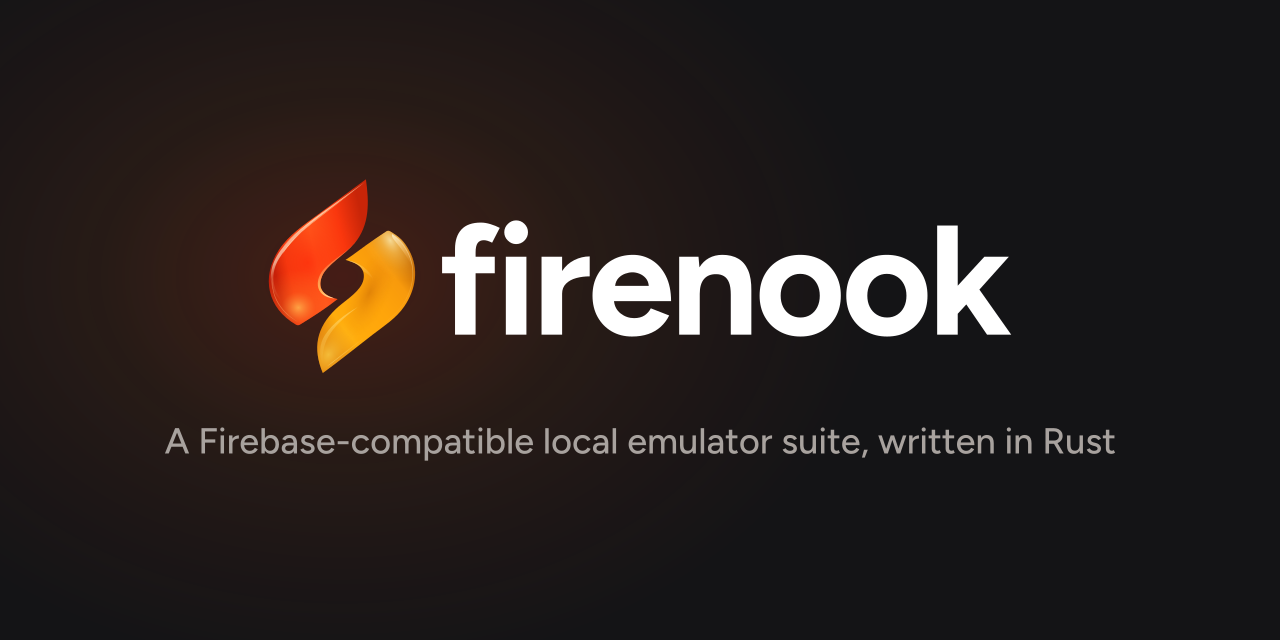
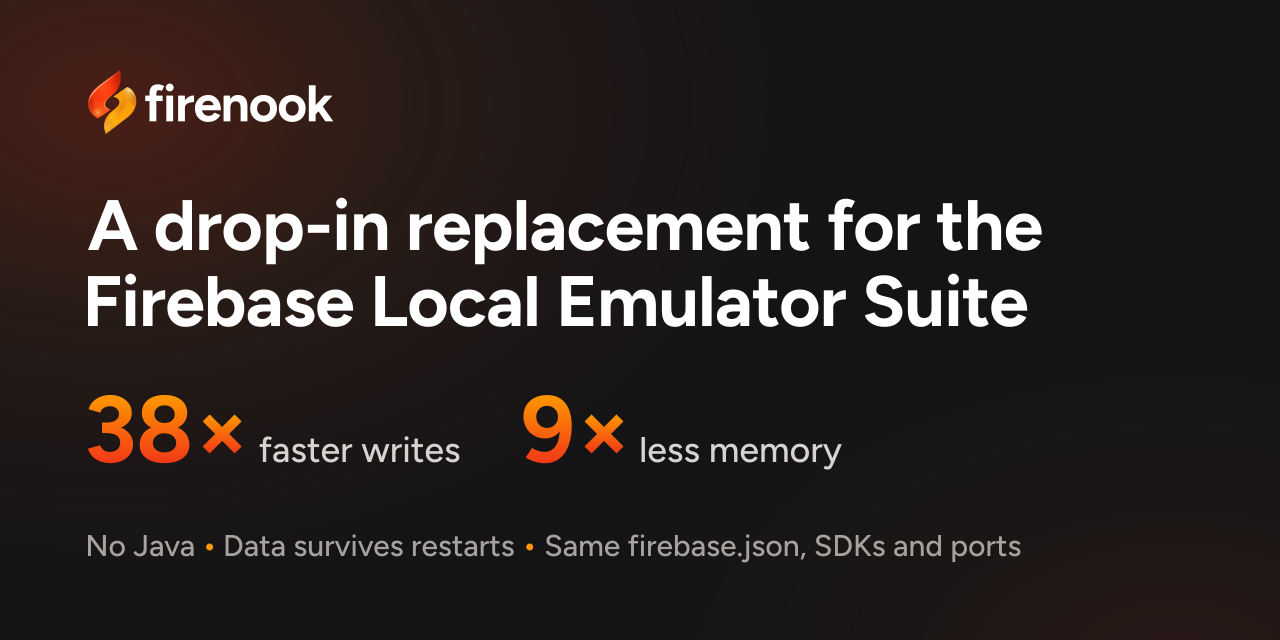
docs: lead with the drop-in replacement, everywhere
One sentence now says what Firenook is and why to switch: a drop-in
replacement for the Firebase Local Emulator Suite that keeps your
firebase.json, SDKs and ports, with 38x faster writes, 9x less memory,
no Java and data that survives restarts. It replaces "the Firebase
emulator suite, rebuilt in Rust", which led with how it is built and
could read as the official suite.

- README and the npm README: the new headline and line under it.
- packages/cli: the npm description and the first line of --help.
- brand: the social card is redrawn around the sentence, with the two
  measured figures (benchmarks/next6-paired-acceptance.json); the
  GitHub preview, the og:image and the overview sheet are rebuilt.

Claude-Session: https://claude.ai/code/session_01B5WacyTP9YhqXEMvFh6tm3

diff --git a/brand/source/build_brand.py b/brand/source/build_brand.py
@@ -45,7 +45,11 @@ WHITE = '#FFFFFF'
 NIGHT = '#141416'      # social-image background, a shade under charcoal
 MUTED_ON_DARK = '#A8A29E'
 
-TAGLINE = 'A Firebase-compatible local emulator suite, written in Rust'
+# The social card. Figures are from benchmarks/next6-paired-acceptance.json.
+HEADLINE = ('A drop-in replacement for the', 'Firebase Local Emulator Suite')
+STATS = (('38×', 'faster writes'), ('9×', 'less memory'))
+POINTS = ('No Java', 'Data survives restarts', 'Same firebase.json, SDKs and ports')
+LABEL_ON_DARK = '#D6D3D1'
 TRACKING = -0.025      # em, wordmark
 THEME = CHARCOAL       # browser theme colour and app-icon background
 SMALL_INSET = 9        # units each flame is inset by in the tab-size favicon
@@ -211,43 +215,77 @@ def icon(style, size, background, mark_height, ink=None):
     return document(size, size, f'0 0 {size} {size}', 'Firenook app icon.', children, style == 'glass')
 
 
+def text(font, words, x, baseline, cap, fill, tracking=0.0):
+    """Outlined text, its left ink edge at x and its capital H `cap` px tall; returns (group, width)."""
+    paths, box, _ = layout(font, words, 0, 0, 1000, ref_text='H', tracking_em=tracking)
+    k = cap / 1000
+    g = el('g', fill=fill, transform=f'translate({n(x)} {n(baseline)}) scale({k:.6f})')
+    for d in paths:
+        if d:
+            g.append(el('path', d=d))
+    return g, box[2] * k
+
+
 def social(width, height):
-    """Dark card: glass lockup with a soft ember glow, tagline underneath."""
-    lockup_w = width * 0.58
-    k = lockup_w / (WB[2] - MB[0])
-    tag_paths, tag_box, _ = layout(MEDIUM, TAGLINE, 0, 0, 1000, ref_text='Hxp', tracking_em=0)
-    tag_h = height * 0.052               # cap-to-descender band of the tagline
-    tk = tag_h / (tag_box[3] - tag_box[1])
-    tag_w = (tag_box[2] - tag_box[0]) * tk
-    gap = height * 0.085
-    block_h = MH * k + gap + tag_h
-    top = (height - block_h) / 2
-    lx = width / 2 - (MB[0] + (WB[2] - MB[0]) / 2) * k
-    ly = top - MB[1] * k
-    glow = el('radialGradient', id='glow', gradientUnits='userSpaceOnUse', cx=0, cy=0, r=1,
-              gradientTransform=f'translate({n(lx + (MB[0] + MW / 2) * k)} {n(ly + (MB[1] + MH / 2) * k)}) '
-                                f'scale({n(width * 0.42)} {n(height * 0.62)})')
-    for off, color, op in ((0, VERMILION, 0.22), (0.45, '#FF6A1A', 0.08), (1, VERMILION, 0)):
-        glow.append(el('stop', offset=off, stop_color=color, stop_opacity=op))
+    """Dark card: the lockup, the drop-in headline, the two measured figures and what stays the same."""
+    u = height / 640                     # sizes are drawn for 640 px tall
+    pad = 88 * u
+    mark_h = 64 * u
+    k = mark_h / MH
+    lx, ly = pad - MB[0] * k, 70 * u - MB[1] * k
+    flame = el('linearGradient', id='flame', x1=0, y1=0, x2=0, y2=1)
+    for off, color in ((0, AMBER), (1, VERMILION)):
+        flame.append(el('stop', offset=off, stop_color=color))
     defs = copy.deepcopy(DEFS)
-    defs.append(glow)
+    defs.append(flame)
+    glows = []
+    for i, (cx, cy, rx, ry, op) in enumerate(((lx + (MB[0] + MW / 2) * k, ly + (MB[1] + MH / 2) * k, 0.55, 0.75, 0.24),
+                                               (width * 0.92, height * 1.05, 0.45, 0.55, 0.10))):
+        glow = el('radialGradient', id=f'glow{i}', gradientUnits='userSpaceOnUse', cx=0, cy=0, r=1,
+                  gradientTransform=f'translate({n(cx)} {n(cy)}) scale({n(width * rx)} {n(height * ry)})')
+        for off, color, o in ((0, VERMILION, op), (0.45, '#FF6A1A', op / 3), (1, VERMILION, 0)):
+            glow.append(el('stop', offset=off, stop_color=color, stop_opacity=o))
+        defs.append(glow)
+        glows.append(el('rect', width=width, height=height, fill=f'url(#glow{i})'))
     lock = el('g', transform=f'translate({n(lx)} {n(ly)}) scale({k:.6f})')
     lock.append(mark_group('glass'))
     lock.append(word_group(WHITE))
-    tag = el('g', id='tagline', fill=MUTED_ON_DARK,
-             transform=f'translate({n(width / 2 - tag_w / 2 - tag_box[0] * tk)} {n(top + MH * k + gap - tag_box[1] * tk)}) scale({tk:.6f})')
-    for d in tag_paths:
-        if d:
-            tag.append(el('path', d=d))
+
+    parts, widths = [], []
+    for i, line in enumerate(HEADLINE):
+        g, w = text(BOLD, line, pad, (250 + 76 * i) * u, 50 * u, WHITE, tracking=-0.012)
+        parts.append(g)
+        widths.append(w)
+    x = pad
+    for number, label in STATS:
+        g, w = text(BOLD, number, x, 462 * u, 66 * u, 'url(#flame)', tracking=-0.01)
+        lg, lw = text(MEDIUM, label, x + w + 18 * u, 462 * u, 25 * u, LABEL_ON_DARK)
+        parts += [g, lg]
+        x += w + 18 * u + lw + 64 * u
+    widths.append(x - 64 * u - pad)
+    x = pad
+    for i, point in enumerate(POINTS):
+        if i:
+            dot = el('circle', cx=n(x + 16 * u), cy=n(547 * u), r=n(3.5 * u), fill=AMBER)
+            parts.append(dot)
+            x += 32 * u
+        g, w = text(MEDIUM, point, x, 556 * u, 21 * u, MUTED_ON_DARK)
+        parts.append(g)
+        x += w
+    widths.append(x - pad)
+    assert max(widths) <= width - 2 * pad, (width, [round(w) for w in widths])
+
     root = el('svg', width=width, height=height, viewBox=f'0 0 {width} {height}', role='img', aria_labelledby='title')
     title = el('title', id='title')
-    title.text = 'Firenook'
+    title.text = 'Firenook: ' + ' '.join(HEADLINE)
     root.append(title)
     root.append(defs)
     root.append(el('rect', width=width, height=height, fill=NIGHT))
-    root.append(el('rect', width=width, height=height, fill='url(#glow)'))
+    for g in glows:
+        root.append(g)
     root.append(lock)
-    root.append(tag)
+    for g in parts:
+        root.append(g)
     return root
 
 

diff --git a/packages/cli/README.md b/packages/cli/README.md
@@ -2,11 +2,11 @@
   <img alt="Firenook" src="https://raw.githubusercontent.com/firenook-dev/firenook/main/brand/logo/firenook-logo.svg" height="64">
 </p>
 
-<h3 align="center">The Firebase emulator suite, rebuilt in Rust</h3>
+<h3 align="center">A drop-in replacement for the Firebase Local Emulator Suite</h3>
 
 <p align="center">
-  Your <code>firebase.json</code>, your SDKs, your ports. A ninth of the memory,
-  writes 38× faster, and your data is there the moment you start.
+  Keep your <code>firebase.json</code>, SDKs and ports. Get 38× faster writes,
+  9× less memory, no Java, and data that survives restarts.
 </p>
 
 <p align="center">

diff --git a/brand/README.md b/brand/README.md
@@ -94,5 +94,6 @@ brew install librsvg imagemagick   # rsvg-convert renders the PNGs, magick packs
 
 `source-tailored.svg` is the approved Tailored Glass artwork the mark is polished
 from. `stage1.py` refits its outlines and `stage2.py` rebuilds the edge highlights.
-The tagline on the social images and the palette are constants at the top of
-`build_brand.py`.
+The social card's headline, figures and points, and the palette, are constants
+at the top of `build_brand.py`. The figures come from
+`benchmarks/next6-paired-acceptance.json`; change them only with a new receipt.

diff --git a/README.md b/README.md
@@ -5,11 +5,11 @@
   </picture>
 </p>
 
-<h3 align="center">The Firebase emulator suite, rebuilt in Rust</h3>
+<h3 align="center">A drop-in replacement for the Firebase Local Emulator Suite</h3>
 
 <p align="center">
-  Your <code>firebase.json</code>, your SDKs, your ports. A ninth of the memory,
-  writes 38× faster, and your data is there the moment you start.
+  Keep your <code>firebase.json</code>, SDKs and ports. Get 38× faster writes,
+  9× less memory, no Java, and data that survives restarts.
 </p>
 
 <p align="center">
